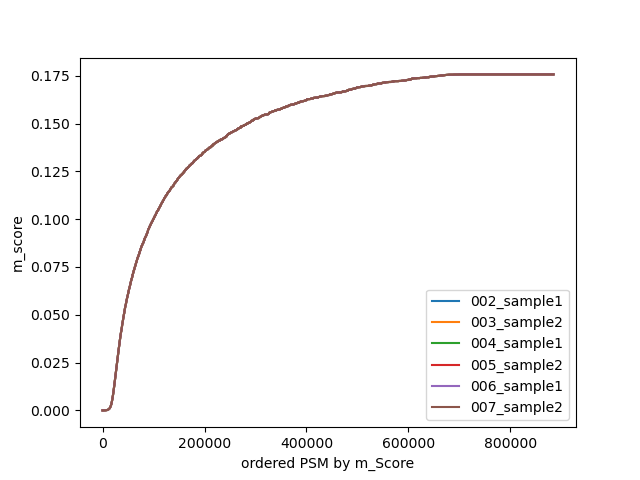
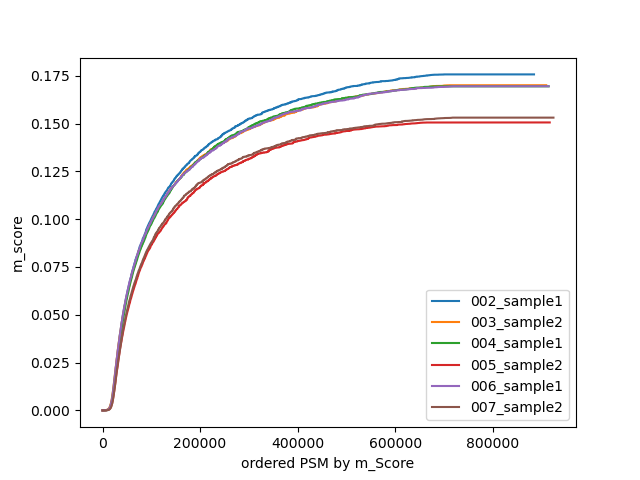
updated plot script

diff --git a/scripts/plot/plot_osw_m_scores.py b/scripts/plot/plot_osw_m_scores.py
@@ -1,0 +1,60 @@
+#!/usr/bin/env python3
+# -*- coding: utf-8 -*-
+"""
+Created on Mon Nov 22 23:45:17 2021
+
+@author: ptruong
+"""
+
+import pandas as pd
+import os 
+import matplotlib.pyplot as plt
+
+
+os.chdir("/hdd_14T/data/PXD002952/20210805_osw_run")
+
+
+df1 = pd.read_csv("osw_output.HYE124_TTOF6600_32fix_lgillet_I150211_002-Pedro_-_Sample_1_-_SW32_-_Repl1.mzML_with_dscore.csv", sep = "\t")
+df2 = pd.read_csv("osw_output.HYE124_TTOF6600_32fix_lgillet_I150211_003-Pedro_-_Sample_2_-_SW32_-_Repl1.mzML_with_dscore.csv", sep = "\t")
+df3 = pd.read_csv("osw_output.HYE124_TTOF6600_32fix_lgillet_I150211_004-Pedro_-_Sample_1_-_SW32_-_Repl2.mzML_with_dscore.csv", sep = "\t")
+df4 = pd.read_csv("osw_output.HYE124_TTOF6600_32fix_lgillet_I150211_005-Pedro_-_Sample_2_-_SW32_-_Repl2.mzML_with_dscore.csv", sep = "\t")
+df5 = pd.read_csv("osw_output.HYE124_TTOF6600_32fix_lgillet_I150211_006-Pedro_-_Sample_1_-_SW32_-_Repl3.mzML_with_dscore.csv", sep = "\t")
+df6 = pd.read_csv("osw_output.HYE124_TTOF6600_32fix_lgillet_I150211_007-Pedro_-_Sample_2_-_SW32_-_Repl3.mzML_with_dscore.csv", sep = "\t")
+
+
+def return_sorted_m_score(df):
+    df_sorted = df.sort_values(by = "m_score").m_score
+    df_m = df_sorted.reset_index().drop("index", axis = 1)
+    return df_m
+
+
+df1_m = return_sorted_m_score(df1)
+df2_m = return_sorted_m_score(df2)
+df3_m = return_sorted_m_score(df3)
+df4_m = return_sorted_m_score(df4)
+df5_m = return_sorted_m_score(df5)
+df6_m = return_sorted_m_score(df6)
+
+df1_m["002_sample1"] = df1_m["m_score"]
+df2_m["003_sample2"] = df2_m["m_score"]
+df3_m["004_sample1"] = df3_m["m_score"]
+df4_m["005_sample2"] = df4_m["m_score"]
+df5_m["006_sample1"] = df5_m["m_score"]
+df6_m["007_sample2"] = df6_m["m_score"]
+
+df_concat = pd.concat([df1_m["002_sample1"], df2_m["003_sample2"], df3_m["004_sample1"], df4_m["005_sample2"], df5_m["006_sample1"], df6_m["007_sample2"]], axis = 1)
+
+
+ax = df_concat.plot()
+ax.set_xlabel("ordered PSM by m_Score")
+ax.set_ylabel("m_score")
+
+
+
+
+
+
+
+
+
+

diff --git a/scripts/plot/plot_diann_q_values.py b/scripts/plot/plot_diann_q_values.py
@@ -1,0 +1,77 @@
+#!/usr/bin/env python3
+# -*- coding: utf-8 -*-
+"""
+Created on Thu Nov 25 11:03:50 2021
+
+@author: ptruong
+"""
+
+import pandas as pd
+import os 
+import matplotlib.pyplot as plt
+
+os.chdir("/hdd_14T/data/PXD002952/20210614_dataset/diaumpire_spectral_lib_20210706/MSFragger_20210707/diann_20210811")
+
+
+df = pd.read_csv("report.tsv", sep = "\t")
+
+# map float in Protein.Ids to check what is the problem and remove these
+float_mapper = lambda x : isinstance(x, float)
+df["isfloat"] = df["Protein.Ids"].map(float_mapper)
+df[df["isfloat"] == True]["Protein.Ids"]
+df = df[df["isfloat"] != True]
+
+# get decoy column
+decoy_mapper = lambda x:x.split("_")[0] == "DECOY"
+df["decoy"] = df["Protein.Ids"].map(decoy_mapper)
+
+
+df_run.columns
+
+runs = df.Run.unique()
+run = runs[0]
+
+
+df_run = df[df.Run == run]
+
+df_incorrect = df_run[df_run.decoy == True].sort_values(by = "CScore")
+df_correct = df_run[df_run.decoy == False].sort_values(by = "CScore")
+
+df_incorrect["incorrect_q_area"] = df_incorrect["Q.Value"].cumsum()
+df_correct["correct_q_area"] =  df_correct["Q.Value"].cumsum()
+
+df_incorrect
+
+##########
+df_qVals = pd.DataFrame()
+
+qval_col = "Q.Value"
+dfs_qVals = []
+for run in runs:
+    df_run = df[df.Run == run].sort_values(by = "CScore")
+    df_run.set_index("CScore", inplace = True)
+    dfs_qVals.append(df_run[qval_col])#.reset_index().drop("index", axis = 1)[qval_col]
+
+for i in dfs_qVals:
+    i.plot()
+    
+    
+split_name = lambda x: x.split("_")[5]
+df_qVals = df_qVals.rename(split_name, axis = 1)
+
+(1-df_qVals).plot()
+ax.set_xlabel("ordered PSM by m_Score")
+ax.set_ylabel("m_score")
+
+
+
+
+
+
+
+
+
+
+
+
+
